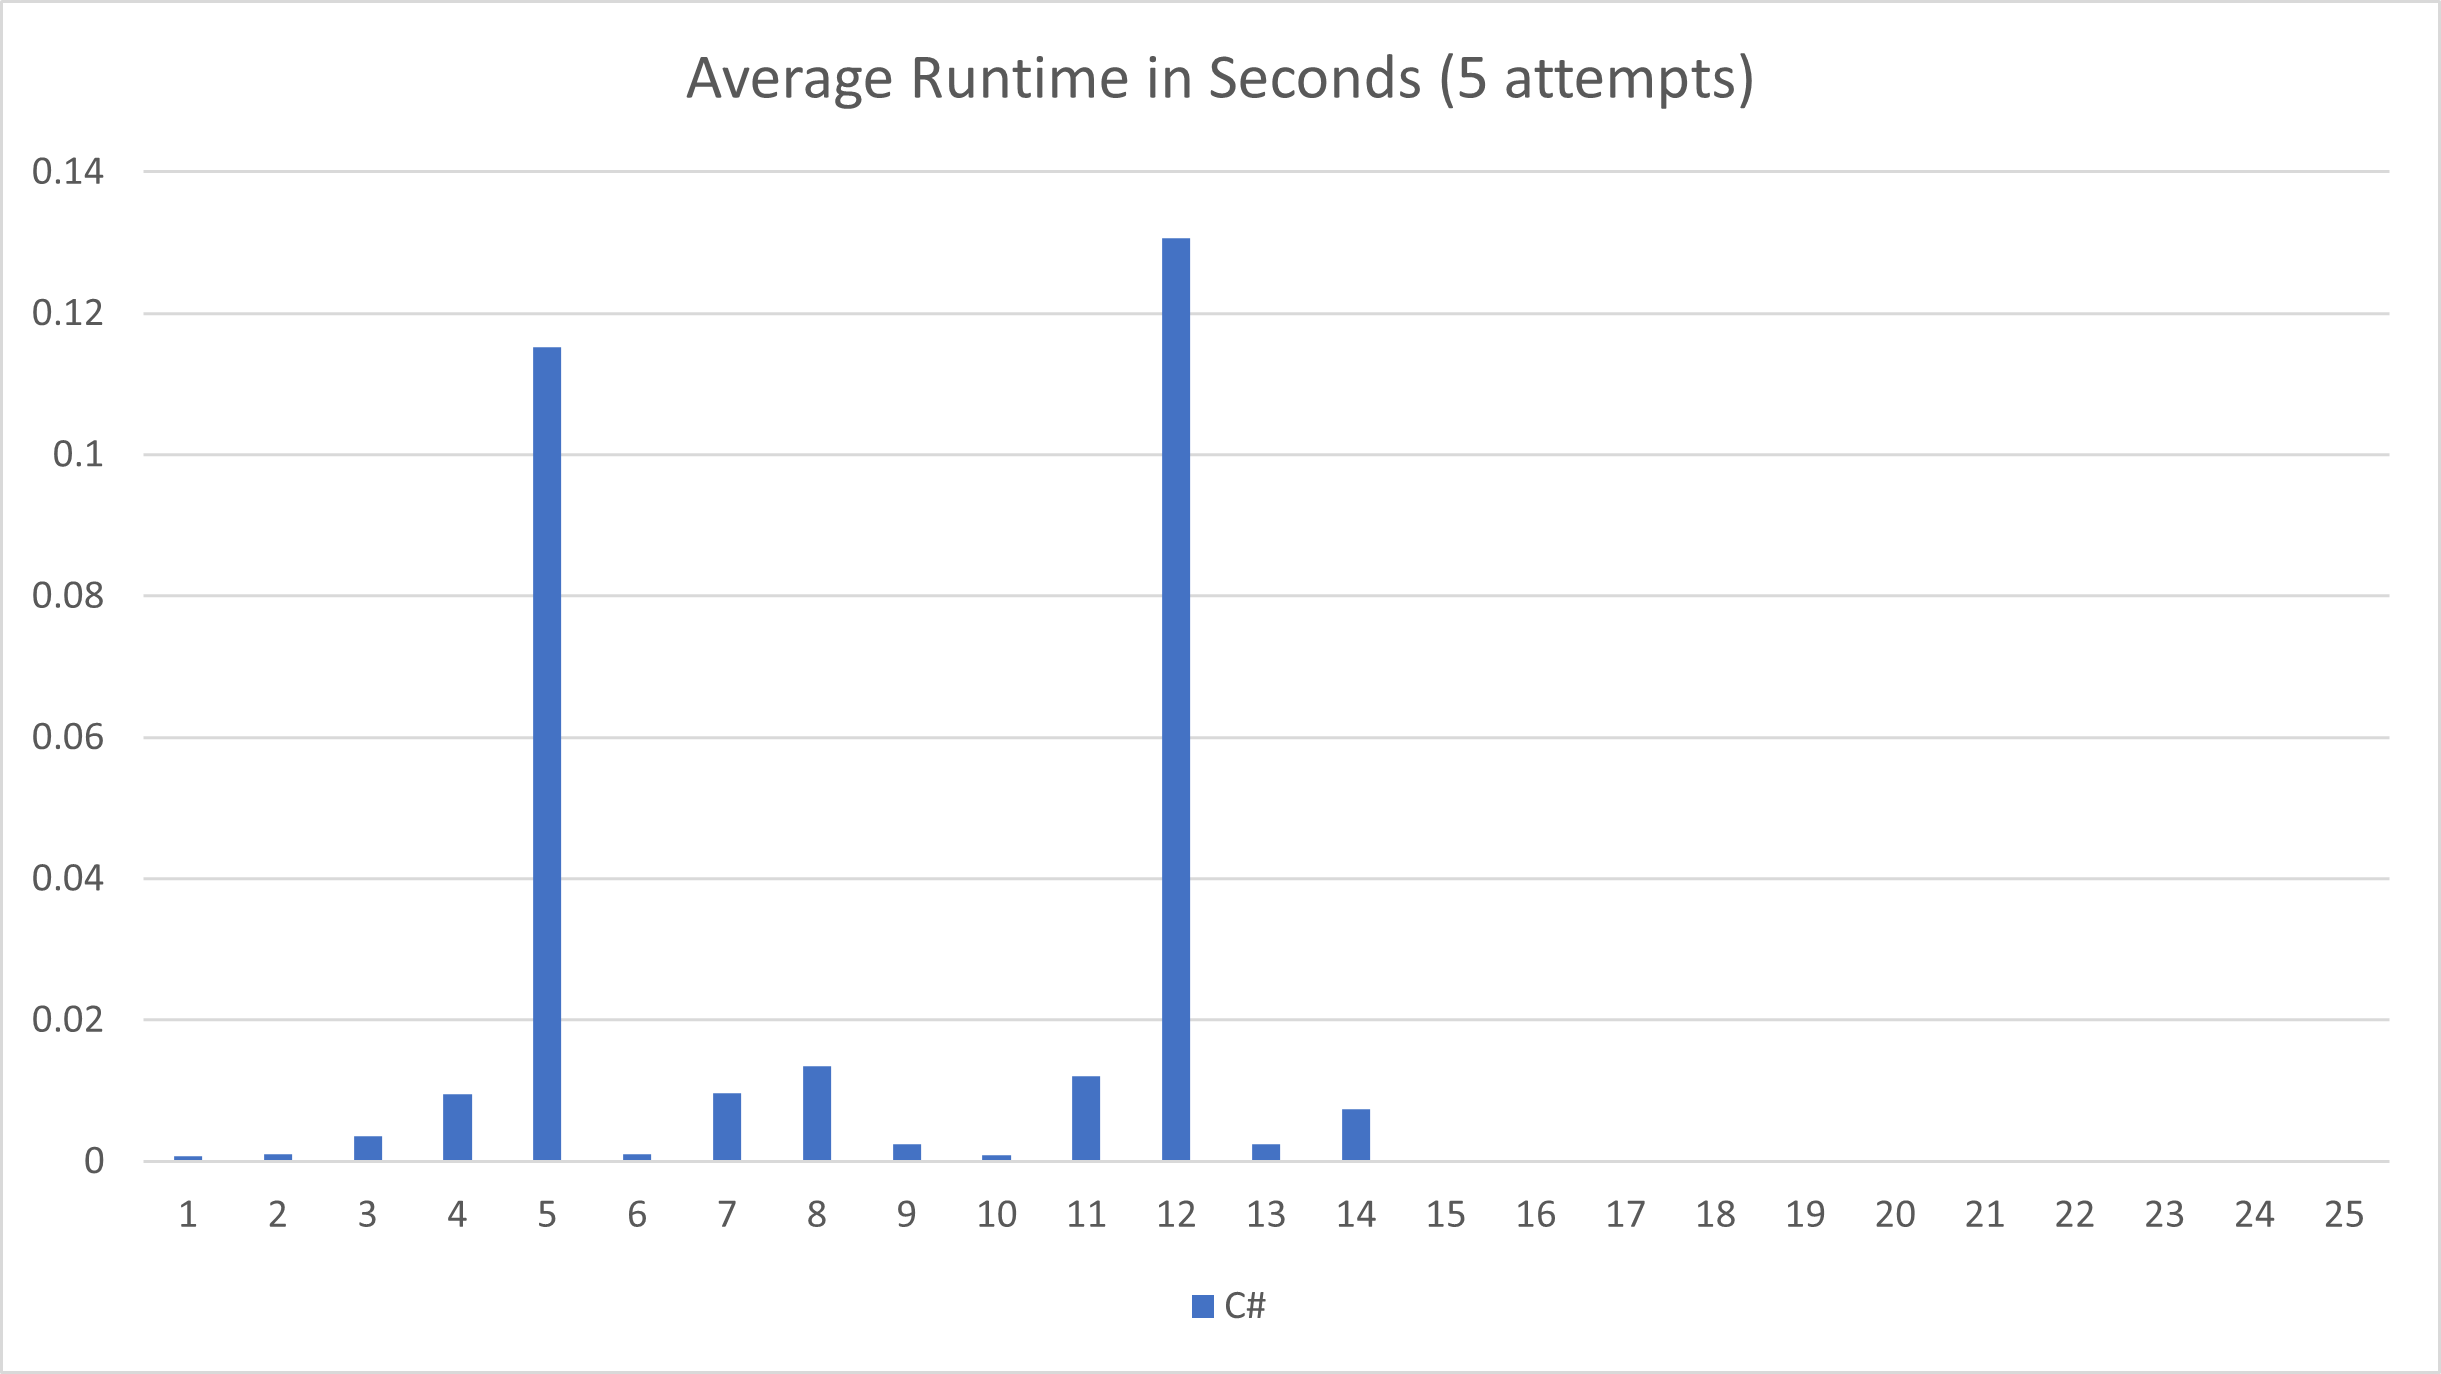
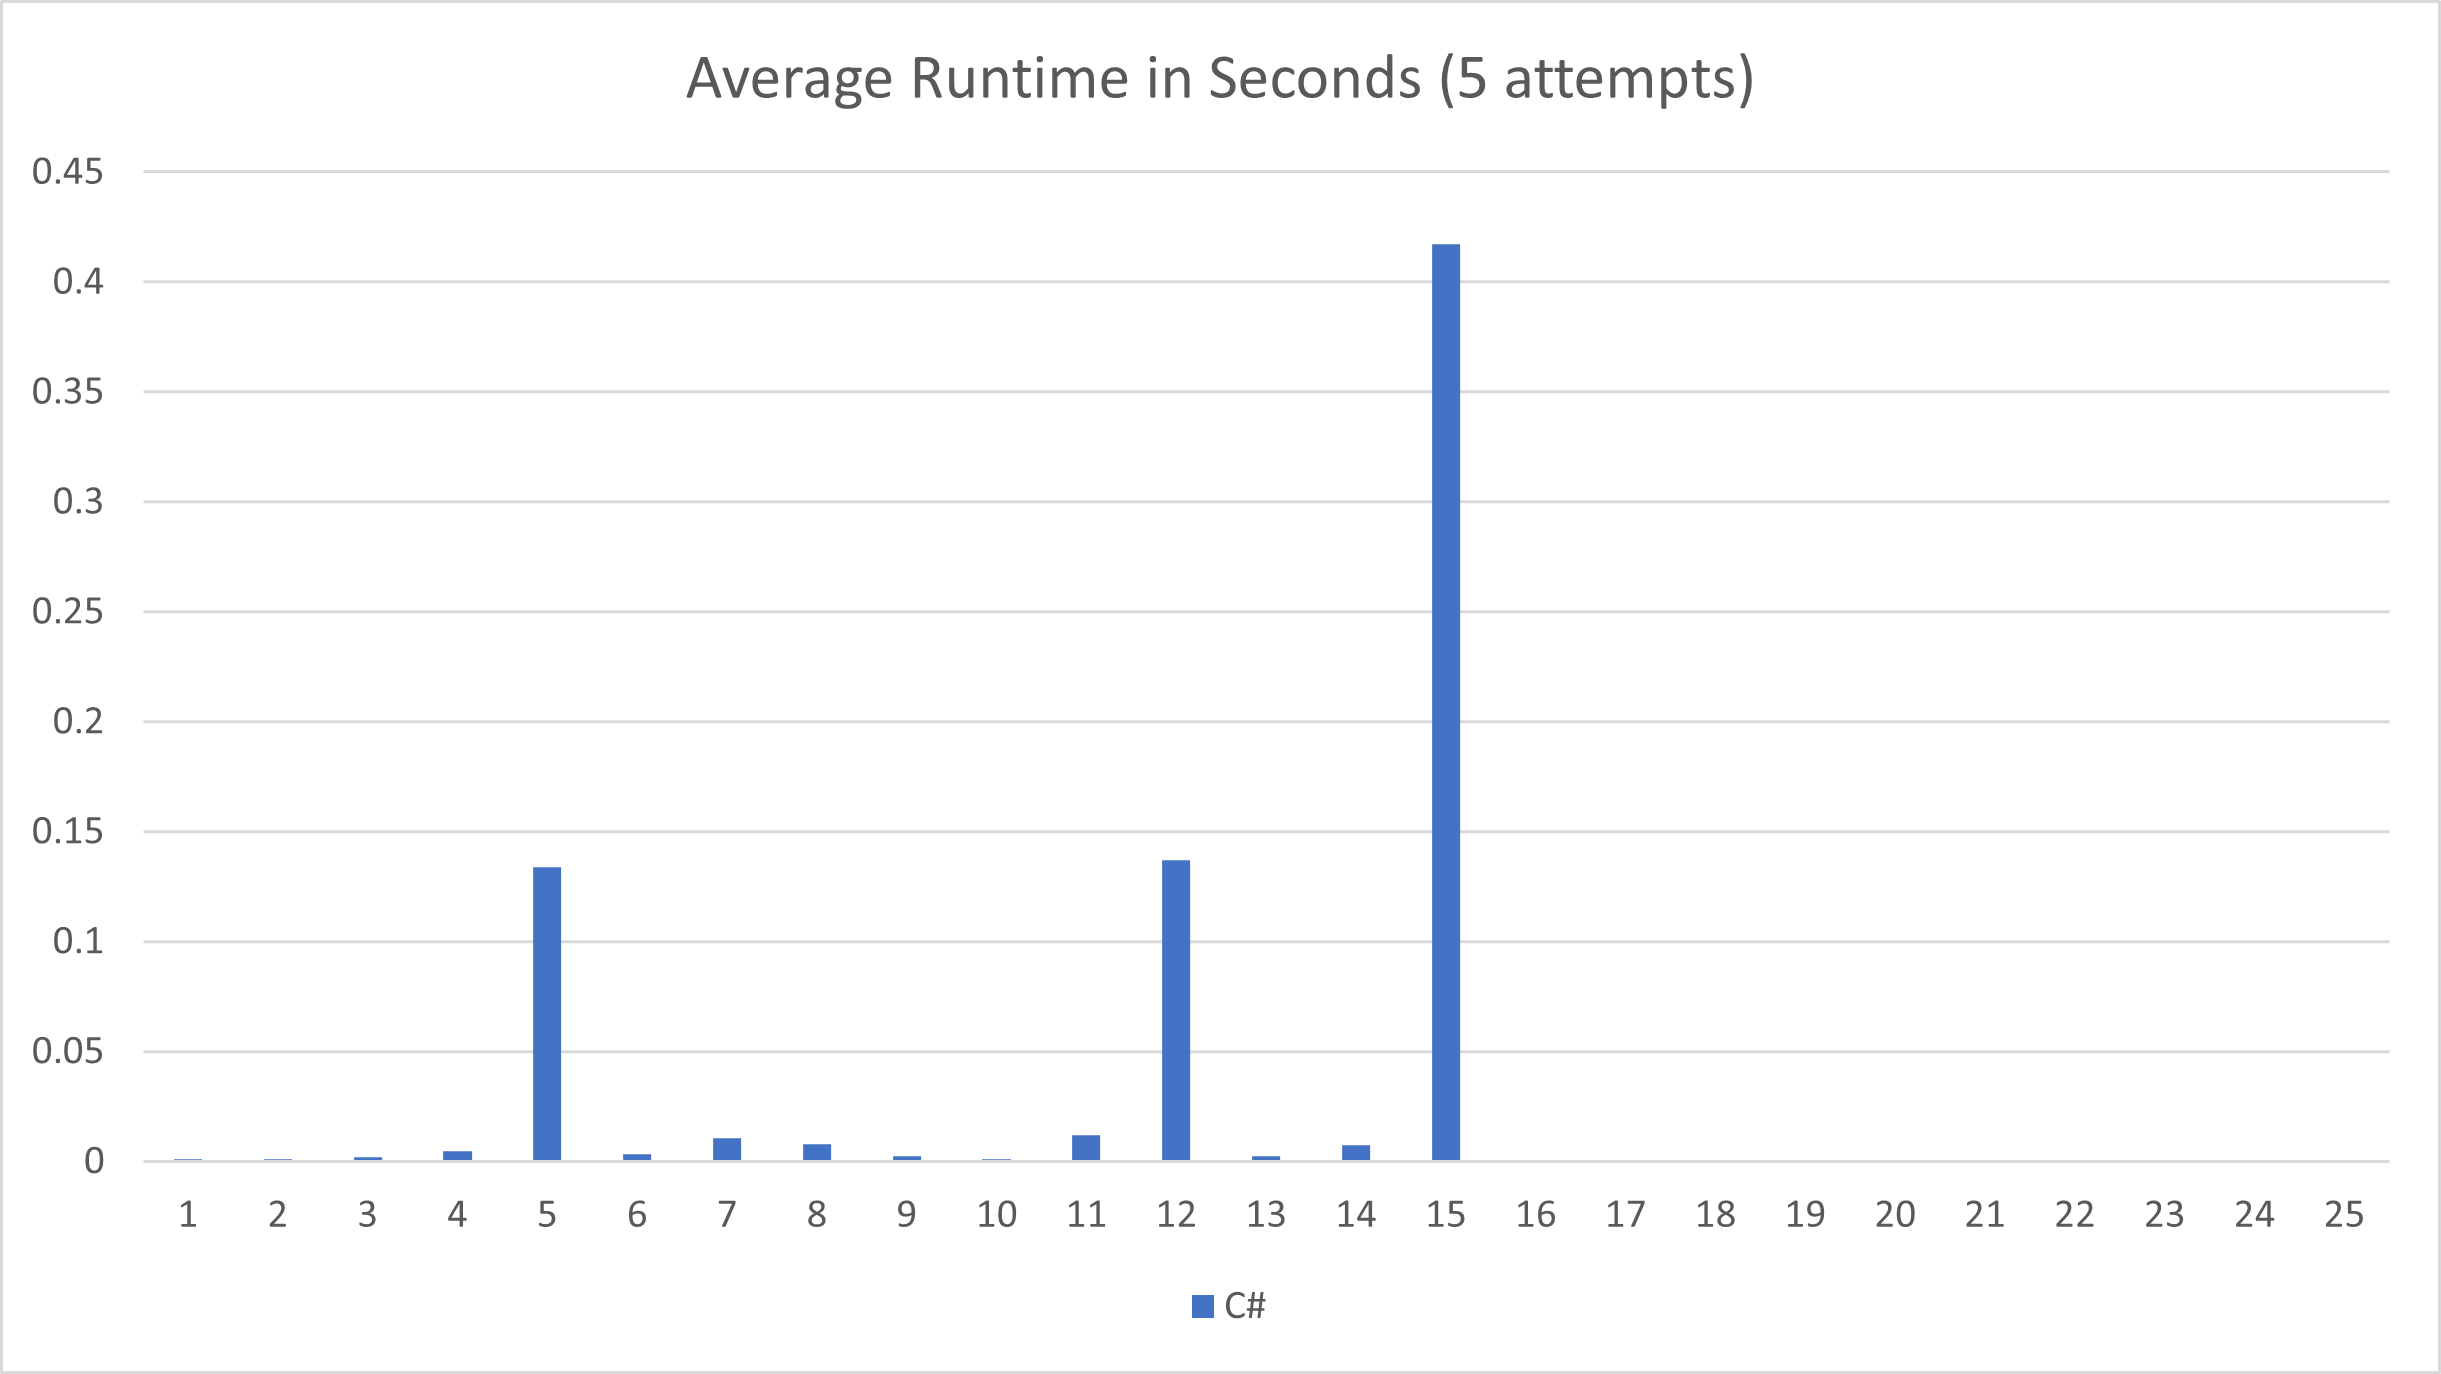
Solve day 15, part 2 (original)

diff --git a/csharp/AdventOfCode2021/Solvers/Day15Solver.cs b/csharp/AdventOfCode2021/Solvers/Day15Solver.cs
@@ -18,7 +18,7 @@ namespace AdventOfCode2021.Solvers
                 .ToList();
 
             Console.WriteLine($"Output (part 1): {GetPart1Answer(lines)}");
-            //Console.WriteLine($"Output (part 2): {GetPart2Answer(lines)}");
+            Console.WriteLine($"Output (part 2): {GetPart2Answer(lines)}");
         }
 
         private static int GetPart1Answer(List<string> input)
@@ -47,7 +47,7 @@ namespace AdventOfCode2021.Solvers
                     return next.Cost;
                 }
 
-                if (visitedMins.ContainsKey(next.Position) && visitedMins[next.Position] < next.Cost)
+                if (visitedMins.ContainsKey(next.Position) && visitedMins[next.Position] <= next.Cost)
                 {
                     continue;
                 }
@@ -59,6 +59,80 @@ namespace AdventOfCode2021.Solvers
                     if (grid.ContainsKey(adjacent))
                     {
                         var nextCost = next.Cost + grid[adjacent];
+                        if (visitedMins.ContainsKey(adjacent) && visitedMins[adjacent] <= nextCost)
+                        {
+                            continue;
+                        }
+
+                        orderedFrontier.Add(nextCost + GetHeuristicCost(adjacent, target), new SearchNode
+                        {
+                            Position = adjacent,
+                            Cost = nextCost
+                        });
+                    }
+                }
+            }
+
+            return -1;
+        }
+
+        private static int GetPart2Answer(List<string> input)
+        {
+            var tileHeight = input.Count;
+            var tileWidth = input[0].Length;
+            var tile = ParseAsGrid(input);
+
+            var grid = new Dictionary<(int x, int y), int>();
+            //duplicate tile
+            for (var i = 0; i < 25; i++)
+            {
+                foreach (var (point, value) in tile)
+                {
+                    var ty = i / 5;
+                    var tx = i % 5;
+                    var valueOffset = ty + tx;
+                    var adjustedPoint = (point.x + tileWidth * tx, point.y + tileHeight * ty);
+                    grid[adjustedPoint] = (value - 1 + valueOffset) % 9 + 1;
+                }
+            }
+
+            var start = (0, 0);
+            var target = (tileWidth * 5 - 1, tileHeight * 5 - 1);
+
+            var orderedFrontier = new BinaryHeap<int, SearchNode>();
+            var visitedMins = new Dictionary<(int, int), int>();
+            var startNode = new SearchNode
+            {
+                Position = start,
+                Cost = 0
+            };
+            orderedFrontier.Add(GetHeuristicCost(start, target), startNode);
+            while (orderedFrontier.Count > 0)
+            {
+                var next = orderedFrontier.Dequeue().Value;
+
+                if (next.Position == target)
+                {
+                    return next.Cost;
+                }
+
+                if (visitedMins.ContainsKey(next.Position) && visitedMins[next.Position] <= next.Cost)
+                {
+                    continue;
+                }
+
+                visitedMins[next.Position] = next.Cost;
+
+                foreach (var adjacent in GetAdjacentPoints(next.Position))
+                {
+                    if (grid.ContainsKey(adjacent))
+                    {
+                        var nextCost = next.Cost + grid[adjacent];
+                        if (visitedMins.ContainsKey(adjacent) && visitedMins[adjacent] <= nextCost)
+                        {
+                            continue;
+                        }
+
                         orderedFrontier.Add(nextCost + GetHeuristicCost(adjacent, target), new SearchNode
                         {
                             Position = adjacent,

diff --git a/README.md b/README.md
@@ -10,7 +10,7 @@ languages later and will track which solutions I've done, using the chart below.
 
 |      |1|2|3|4|5|6|7|8|9|10|11|12|13|14|15|16|17|18|19|20|21|22|23|24|25|
 |------|-|-|-|-|-|-|-|-|-|--|--|--|--|--|--|--|--|--|--|--|--|--|--|--|--|
-|**C#**|🌟|🌟|🌟|🌟|🌟|🌟|🌟|🌟|🌟|🌟|🌟|🌟|🌟|🌟|☆|☆|☆|☆|☆|☆|☆|☆|☆|☆|☆|
+|**C#**|🌟|🌟|🌟|🌟|🌟|🌟|🌟|🌟|🌟|🌟|🌟|🌟|🌟|🌟|🌟|☆|☆|☆|☆|☆|☆|☆|☆|☆|☆|
 
 ⭐ - First star completed\
 🌟 - Both stars completed
